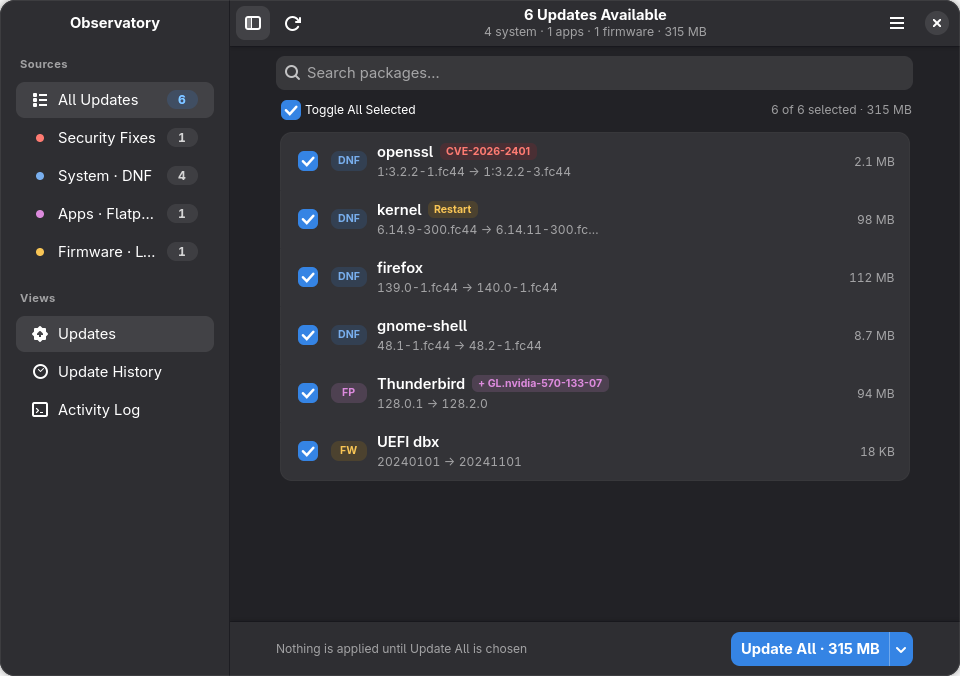
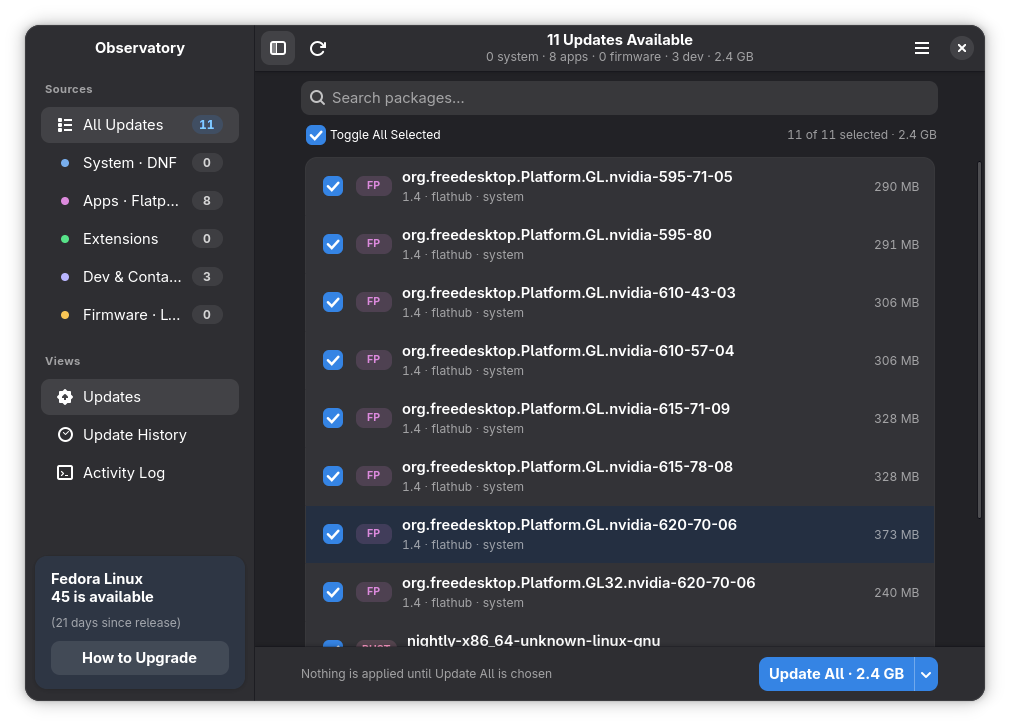
Bump version to 0.5.0 and update README and screenshot

diff --git a/README.md b/README.md
@@ -5,9 +5,9 @@
 ![Fedora 42+](https://img.shields.io/badge/Fedora-42%2B-51A2DA?logo=fedora&logoColor=white)
 ![GTK4 & Libadwaita](https://img.shields.io/badge/UI-GTK4_%2F_Libadwaita-4A86CF)
 
-A fast, transparent GTK4 + Libadwaita desktop updater for Fedora that brings **system (DNF)**, **Flatpak** (user and system, including NVIDIA/runtime extensions), and **LVFS firmware** updates together in a single **Observatory** workspace.
+A fast, transparent GTK4 + Libadwaita desktop updater for Fedora that brings **system updates** (classic **DNF** and Atomic **`rpm-ostree`**), **Flatpak** (user and system, including NVIDIA/runtime extensions), **GNOME Shell Extensions**, **Homebrew**, **developer toolchains** (`rustup` & `mise`), opt-in **rootless containers** (`Distrobox` & `Toolbx`), **unprivileged Custom User Hooks**, **unused cleanup**, and **LVFS firmware** together in a single **Observatory** workspace.
 
-[![Reviewing pending system, Flatpak, and firmware updates in Fedora Updater](screenshots/ready.png)](screenshots/ready.png)
+[![Reviewing pending Flatpak and developer toolchain updates in Fedora Updater](screenshots/ready.png)](screenshots/ready.png)
 
 | Live Telemetry | Update History | Safe Completion |
 |:---:|:---:|:---:|
@@ -17,27 +17,39 @@ A fast, transparent GTK4 + Libadwaita desktop updater for Fedora that brings **s
 
 ## Features
 
-- **Unified Fedora update view:** Inspect pending **DNF** packages, **Flatpak** user/system apps and runtime extensions, and **fwupd** LVFS firmware updates in one window with source pills (`DNF` / `FP` / `FW`) and counts.
-- **Zero-password checks & history:** Update discovery (`dnf5daemon-server` D-Bus with empty session config, `libflatpak`, and `fwupd`) and transaction history browsing run unprivileged — authentication is only requested when applying privileged updates.
-- **Flexible apply modes:** Use per-package checkboxes and the `Update All` SplitButton to choose **Update All**, **Update & Restart**, **Prepare Offline Update**, or **Download Only**.
+- **Unified multi-source Observatory view:** Inspect pending **DNF** or Atomic **`rpm-ostree`** system updates, **Flatpak** user/system apps and runtime extensions, **GNOME Shell Extensions**, **Homebrew**, **`rustup`** & **`mise`** developer toolchains, opt-in **Distrobox** / **Toolbx** containers, **Custom User Hooks**, and **fwupd** LVFS firmware in one window with color-coded source pills (`DNF` / `OSTREE` / `FP` / `EXT` / `BREW` / `RUST` / `MISE` / `DBOX` / `TBX` / `HOOK` / `FW`) and counts.
+- **Dynamic source sidebar & native Preferences (`Ctrl+,`):** Automatically hides unconfigured/disabled categories in the Observatory sidebar while letting you enable or disable individual sources, opt in to rootless container updates, and manage Custom Hooks in a Libadwaita Preferences dialog.
+- **Zero-password checks & history:** Update discovery (`dnf5daemon-server` D-Bus with empty session config, `rpm-ostree`, `libflatpak`, GNOME Shell session D-Bus, user-space tools, and `fwupd`) and transaction history browsing run unprivileged — authentication is only requested when applying privileged system or firmware updates.
+- **Flexible apply modes:** Use per-package checkboxes and the `Update All` SplitButton to choose **Update All** (or **Stage System Update** on Atomic hosts), **Update & Restart**, **Prepare Offline Update**, or **Download Only**.
 - **Security advisories & Package Inspector:** Click any update row to inspect version transitions (`old → new`), CVE and Bugzilla references, advisory severity badges, install-size deltas, and summaries.
 - **Live telemetry & throughput sparkline:** Watch real-time MB/s download throughput, peak rate, 4-stage pipeline pills (`Download` → `Prepare` → `Install` → `Verify`), and cancel downloads safely mid-run.
+- **Post-update unused cleanup:** Surfaces reclaimable unused Flatpak runtimes and orphaned Homebrew leaf formulae in an opt-in banner with an explicit confirmation dialog before removing anything.
+- **Opt-in unprivileged Custom User Hooks:** Configure custom user-space check/apply commands (`sh -c` under your own account, zero `pkexec`/root) with editable static form presets (`uv tools`, `pipx apps`, `Cargo binaries`, `npm global`) right in Preferences.
 - **Hardware & reboot safety guards:** Checks AC power / battery thresholds via `fwupd` before flashing firmware and queries `systemd-logind` shutdown inhibitors before restarting.
 - **Observatory dual-mode shell:** Collapsible sidebar (`F9` / `Ctrl+\`), instant package search (`Ctrl+F`), embedded filterable **Activity Log**, **Update History** timeline, and **Fedora release-upgrade** notices.
-- **Single portable binary:** Built as one multi-call executable (`fedora-updater` + `fedora-updater --helper`) with zero GSettings schemas required (UI geometry and sidebar state persist in `$XDG_CONFIG_HOME/fedora-updater/ui.json`).
+- **Single portable binary:** Built as one multi-call executable (`fedora-updater` + `fedora-updater --helper`) with zero GSettings schemas required (UI geometry, sidebar state, source toggles, and custom hooks persist in `$XDG_CONFIG_HOME/fedora-updater/ui.json`).
 
 ---
 
 ## How It Works
 
-Fedora Updater talks to native Fedora platform daemons and libraries by default and automatically falls back to standard CLI tools (run via `--helper` when elevated privileges are needed) if a daemon is unavailable:
+Fedora Updater talks to native Fedora platform daemons, libraries, and user-space CLI managers by default and automatically falls back to standard CLI tools (run via `--helper` only when elevated privileges are needed) if a daemon is unavailable:
 
-| Area | Native Engine (Default) | Automatic Fallback |
+| Area | Native Engine (Default) | Automatic Fallback / Notes |
 |---|---|---|
 | **System (DNF)** | `dnf5daemon-server` (`org.rpm.dnf.v0`) D-Bus — zero-auth check & history, advisories, selective/offline/download-only apply | `dnf check-update` / `dnf update -y` via `--helper` |
+| **System (Atomic)** | `rpm-ostree` status/diff/advisories detection and staged deployments on OSTree hosts | Automatic host-mode adaptation (`OSTREE` badge, single-unit staging) |
 | **Flatpak** (user & system) | `libflatpak.so.0` discovery (`list_installed_refs_for_update`) & `FlatpakTransaction` with related extensions | `flatpak update --noninteractive` |
+| **GNOME Extensions** | `org.gnome.Shell.Extensions` session D-Bus discovery & selective unprivileged install/update | Silently skipped outside GNOME Shell sessions |
+| **Homebrew** | `brew outdated --json=v2` discovery & selective unprivileged `brew upgrade` | Auto-detected in `PATH` and `/home/linuxbrew/.linuxbrew/bin/brew` |
+| **Developer Toolchains** | `rustup check` & `mise outdated --json` — fast read-only checks with exact `old → new` diffs and selective apply | Strictly unprivileged (`RUST` / `MISE` badges) |
+| **Containers** *(opt-in)* | Rootless `distrobox` and `toolbx` discovery & per-container upgrade with ID deduplication | Disabled by default; opt in via Preferences (`Ctrl+,`) |
+| **Custom User Hooks** *(opt-in)* | User-defined commands executed strictly as your user account (`sh -c`), assisted by static form presets (`uv tools`, `pipx apps`, `Cargo binaries`, `npm global`) | Never routed through `--helper` or `pkexec` |
+| **Unused Cleanup** | Dry-run discovery for unused Flatpak refs (`flatpak uninstall --unused --assumeno`) & Homebrew leaves (`brew autoremove --dry-run`) | Always asks confirmation before deleting |
 | **Firmware** | `fwupd` (`org.freedesktop.fwupd`) D-Bus — battery guards, LVFS release notes, device progress & history | `fwupdmgr refresh` / `get-updates` / `update` via `--helper` |
 | **Reboot** | `systemd-logind` (`org.freedesktop.login1`) `CanReboot` / inhibitor check & `Reboot(true)` | `systemctl reboot` |
+
+> **Built-in toolchains vs. Custom Hooks (80/20 boundary):** Built-in developer toolchain backends are reserved for isolated, unprivileged managers with a fast read-only check query producing exact per-item `old → new` diffs and selective apply (`rustup`, `mise`). Other language/tool managers (`uv`, `pipx`, `cargo install-update`, `npm -g`, `nvm`/`fnm`, etc.) run cleanly as user-owned **Custom Hooks** via editable form templates without brittle output parsers or root privileges.
 
 ---
 
@@ -125,6 +137,7 @@ Choose any of the three ways to run:
 |---|---|
 | `Ctrl+R` or `F5` | Check for updates |
 | `Ctrl+F` | Focus package search |
+| `Ctrl+,` | Open Preferences |
 | `F9` or `Ctrl+\` | Toggle Observatory sidebar |
 
 ---
@@ -154,13 +167,13 @@ export FEDORA_UPDATER_HELPER=/path/to/fedora-updater
 
 ## Development & Testing
 
-The test suite runs completely offline in under a second (**280 offline tests + 5 opt-in live-host tests**) across four tiers backed by a **39-file** deterministic fixture corpus under [`tests/fixtures/`](tests/fixtures/README.md):
+The test suite runs completely offline in under a second (**367 offline tests + 6 opt-in live-host tests**) across four tiers backed by a **74-file** deterministic fixture corpus under [`tests/fixtures/`](tests/fixtures/README.md):
 
 ```bash
 # Fast offline unit, functional, and pipe-based E2E suite
 cargo test
 
-# 26 headless GTK4/Libadwaita widget, row, window, and dialog E2E tests (uses gtk4-broadwayd)
+# 30 headless GTK4/Libadwaita widget, row, window, and dialog E2E tests (uses gtk4-broadwayd)
 ./scripts/test-ui-headless.sh
 
 # Strict lint check
@@ -178,7 +191,7 @@ Inspect any application state immediately without touching system packages or ru
 FEDORA_UPDATER_PREVIEW=ready-native ./bin/fedora-updater
 ```
 
-Available presets include `idle`, `idle-current`, `idle-warning`, `auth`, `checking`, `ready`, `ready-many`, `ready-warn`, `ready-native`, `running`, `running-sparkline`, `running-many`, `running-expanded`, `done`, `done-reboot`, `done-partial`, `failed`, `history`, and `log`. Set `FEDORA_UPDATER_SCREENSHOT=/path/to/out.png` to capture a window snapshot and exit cleanly.
+Available presets include `idle`, `idle-current`, `idle-warning`, `idle-cleanup`, `auth`, `checking`, `ready`, `ready-many`, `ready-warn`, `ready-native`, `ready-ostree`, `ready-ostree-mixed`, `ready-containers`, `ready-toolchains`, `ready-hooks`, `running`, `running-sparkline`, `running-many`, `running-expanded`, `running-ostree`, `done`, `done-reboot`, `done-partial`, `done-ostree`, `done-cleanup`, `failed`, `history`, and `log`. Set `FEDORA_UPDATER_SCREENSHOT=/path/to/out.png` to capture a window snapshot and exit cleanly.
 
 <details>
 <summary>Architecture & Module Map</summary>
@@ -186,14 +199,14 @@ Available presets include `idle`, `idle-current`, `idle-warning`, `auth`, `check
 ```text
 fedora-updater (GUI)
        │
-       ├── native D-Bus / C ABI ──► dnf5daemon-server · libflatpak.so.0 · fwupd · logind
-       └── privilege fallback ──── pkexec ──► fedora-updater --helper
-                                                  └── allowlisted /usr/bin/dnf & /usr/bin/fwupdmgr
+       ├── native / user-space ──► dnf5daemon-server · rpm-ostree · libflatpak.so.0 · GNOME Shell · brew · rustup · mise · distrobox · toolbx · fwupd · logind
+       └── privilege fallback  ── pkexec ──► fedora-updater --helper
+                                               └── allowlisted /usr/bin/dnf & /usr/bin/fwupdmgr
 
 src/
 ├── main.rs                Multi-call CLI/GUI entry point (--helper dispatch & AdwApplication)
 ├── lib.rs                 Library crate root
-├── model.rs               Domain types (Package, PackageAdvisory, UpdateSource, ApplyMode, Stopwatch)
+├── model.rs               Domain types (Package, PackageAdvisory, SourceCategory, UpdateSource, ApplyMode, Stopwatch)
 ├── state.rs               Pure state machine (AppState, Phase, RunningState, reduce)
 ├── orchestrator.rs        Sequential check/apply/history pipelines, native-first + fallback, cancellation
 ├── presenter.rs           Pure UI copy, badge formatting, counts, and status helpers
@@ -203,13 +216,21 @@ src/
 ├── helper_mode.rs         Privileged allowlist worker implementation (dnf / fwupdmgr)
 ├── style.css              WCAG-checked Observatory & Libadwaita theme tokens
 ├── backend/
-│   ├── mod.rs             NativeOutcome enum, progress & reboot dispatch
+│   ├── mod.rs             NativeOutcome enum, user binary lookup, progress & reboot dispatch
+│   ├── brew.rs            Homebrew JSON discovery, progress hints, and unprivileged apply
+│   ├── cleanup.rs         Unused Flatpak ref & Homebrew autoremove dry-run discovery and cleanup
+│   ├── containers.rs      Rootless Distrobox & Toolbx container discovery, deduplication, and upgrade
 │   ├── dnf_dbus.rs        org.rpm.dnf.v0 D-Bus client (zero-auth check, advisories, history, download/transaction progress)
 │   ├── dnf.rs             dnf5 / classic DNF check, repoquery & apply stdout/stderr parsers
 │   ├── flatpak.rs         libflatpak.so.0 dynamic loader, FlatpakTransaction apply & CLI fallback
 │   ├── fwupd_dbus.rs      org.freedesktop.fwupd D-Bus client (battery safety, release notes, history, progress)
 │   ├── fwupd.rs           fwupdmgr JSON/text parsers & progress hints
-│   └── logind.rs          org.freedesktop.login1 CanReboot / inhibitor detection & reboot execution
+│   ├── gnome_extensions.rs org.gnome.Shell.Extensions session D-Bus check & selective install
+│   ├── hooks.rs           Opt-in unprivileged CustomHook definitions, static HOOK_TEMPLATES & check parser
+│   ├── logind.rs          org.freedesktop.login1 CanReboot / inhibitor detection & reboot execution
+│   ├── mise.rs            User-space mise outdated JSON parser & selective upgrade
+│   ├── rpm_ostree.rs      Atomic Fedora rpm-ostree status, diff, advisories & staged deployment
+│   └── rustup.rs          User-space rustup check parser & selective toolchain/self-update plan
 ├── privilege/
 │   ├── mod.rs             Privilege session module exports
 │   ├── pool.rs            Pooled privileged session lifecycle
@@ -224,9 +245,10 @@ src/
     ├── history.rs         Searchable/filterable merged DNF5 + fwupd Update History timeline
     ├── activity_log.rs    Embedded filterable Activity Log view
     ├── charts.rs          Cairo-rendered throughput sparkline & progress charts
-    ├── dialogs.rs         About, Release Upgrade, error detail, and confirmation dialogs
+    ├── dialogs.rs         About, Release Upgrade, cleanup confirm, error detail & confirmation dialogs
+    ├── preferences.rs     Libadwaita Preferences dialog, source switches, and Custom Hook editor with presets
     ├── rows.rs            Package row widgets and status badges
-    ├── prefs.rs           Standalone XDG JSON UI geometry/sidebar persistence ($XDG_CONFIG_HOME/fedora-updater/ui.json)
+    ├── prefs.rs           Standalone XDG JSON UI/source/hook persistence ($XDG_CONFIG_HOME/fedora-updater/ui.json)
     └── preview.rs         FEDORA_UPDATER_PREVIEW states & FEDORA_UPDATER_SCREENSHOT capture
 ```
 
